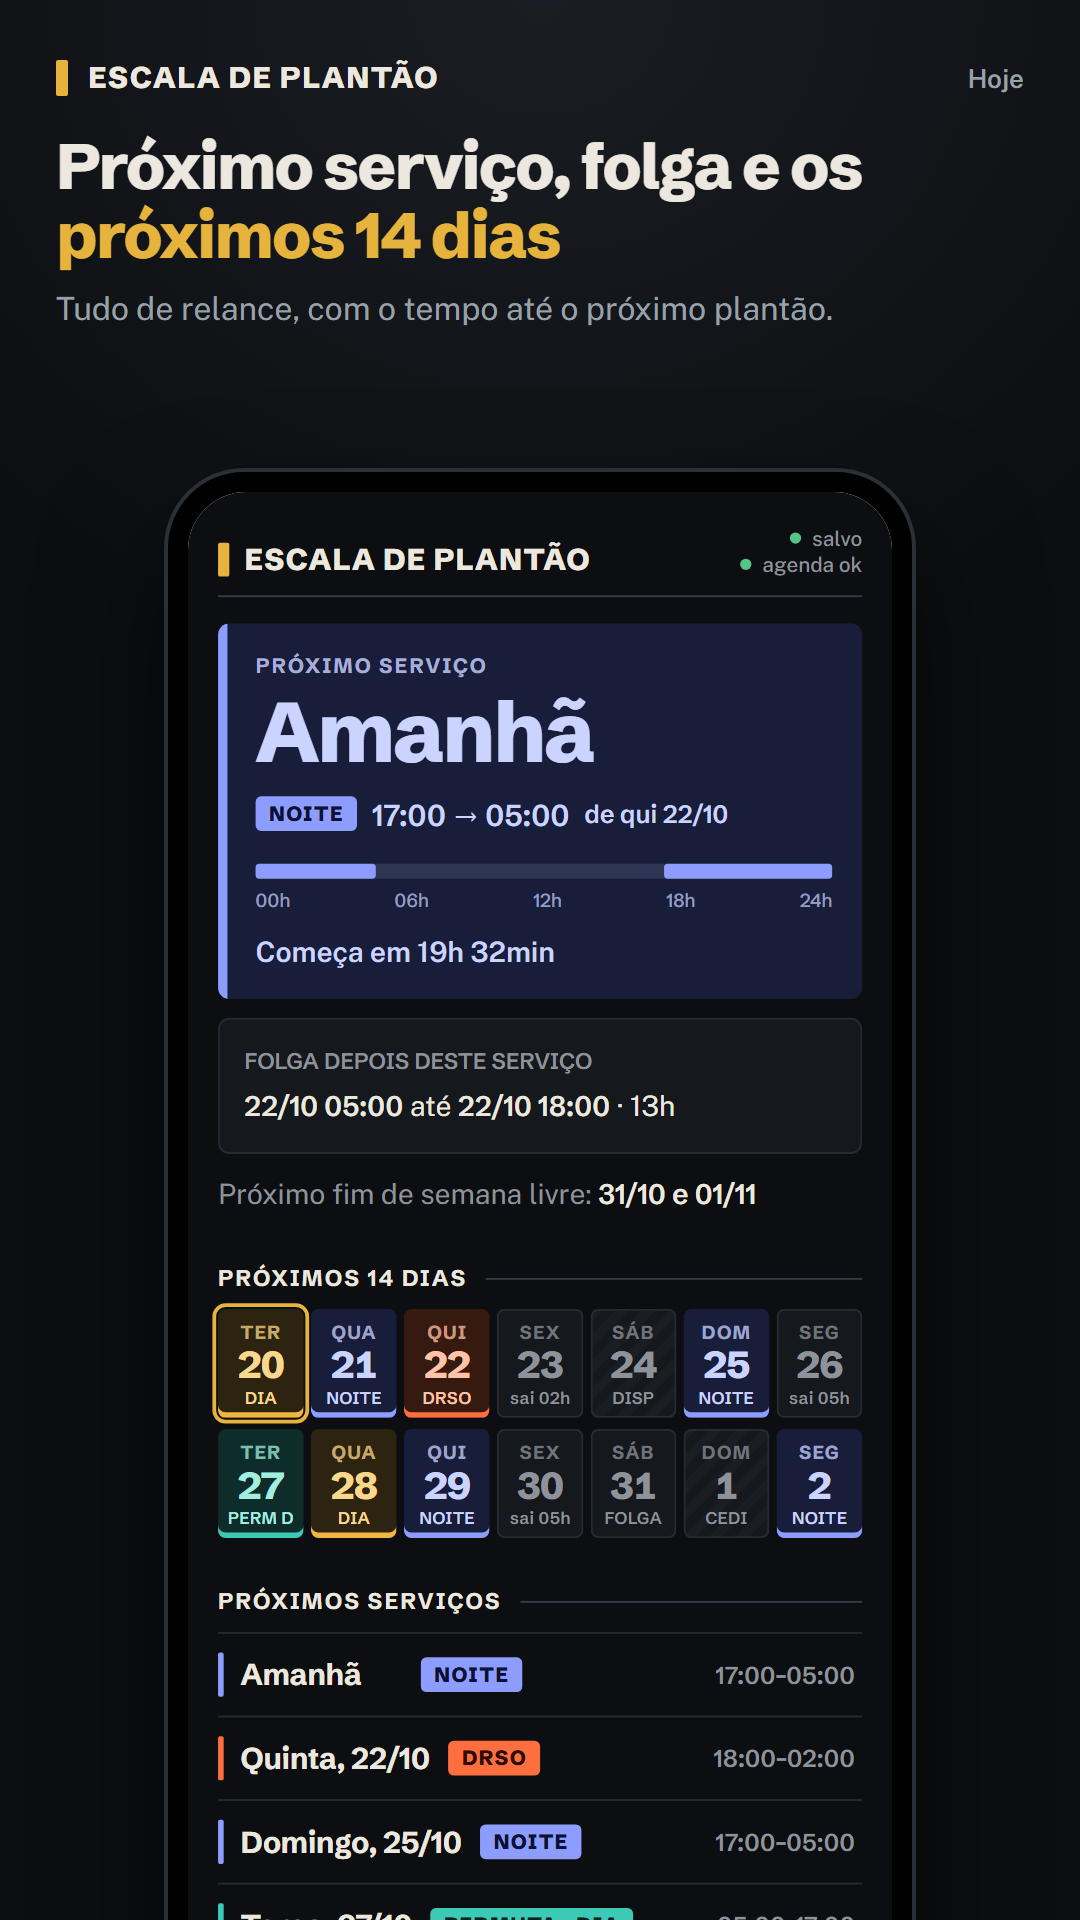
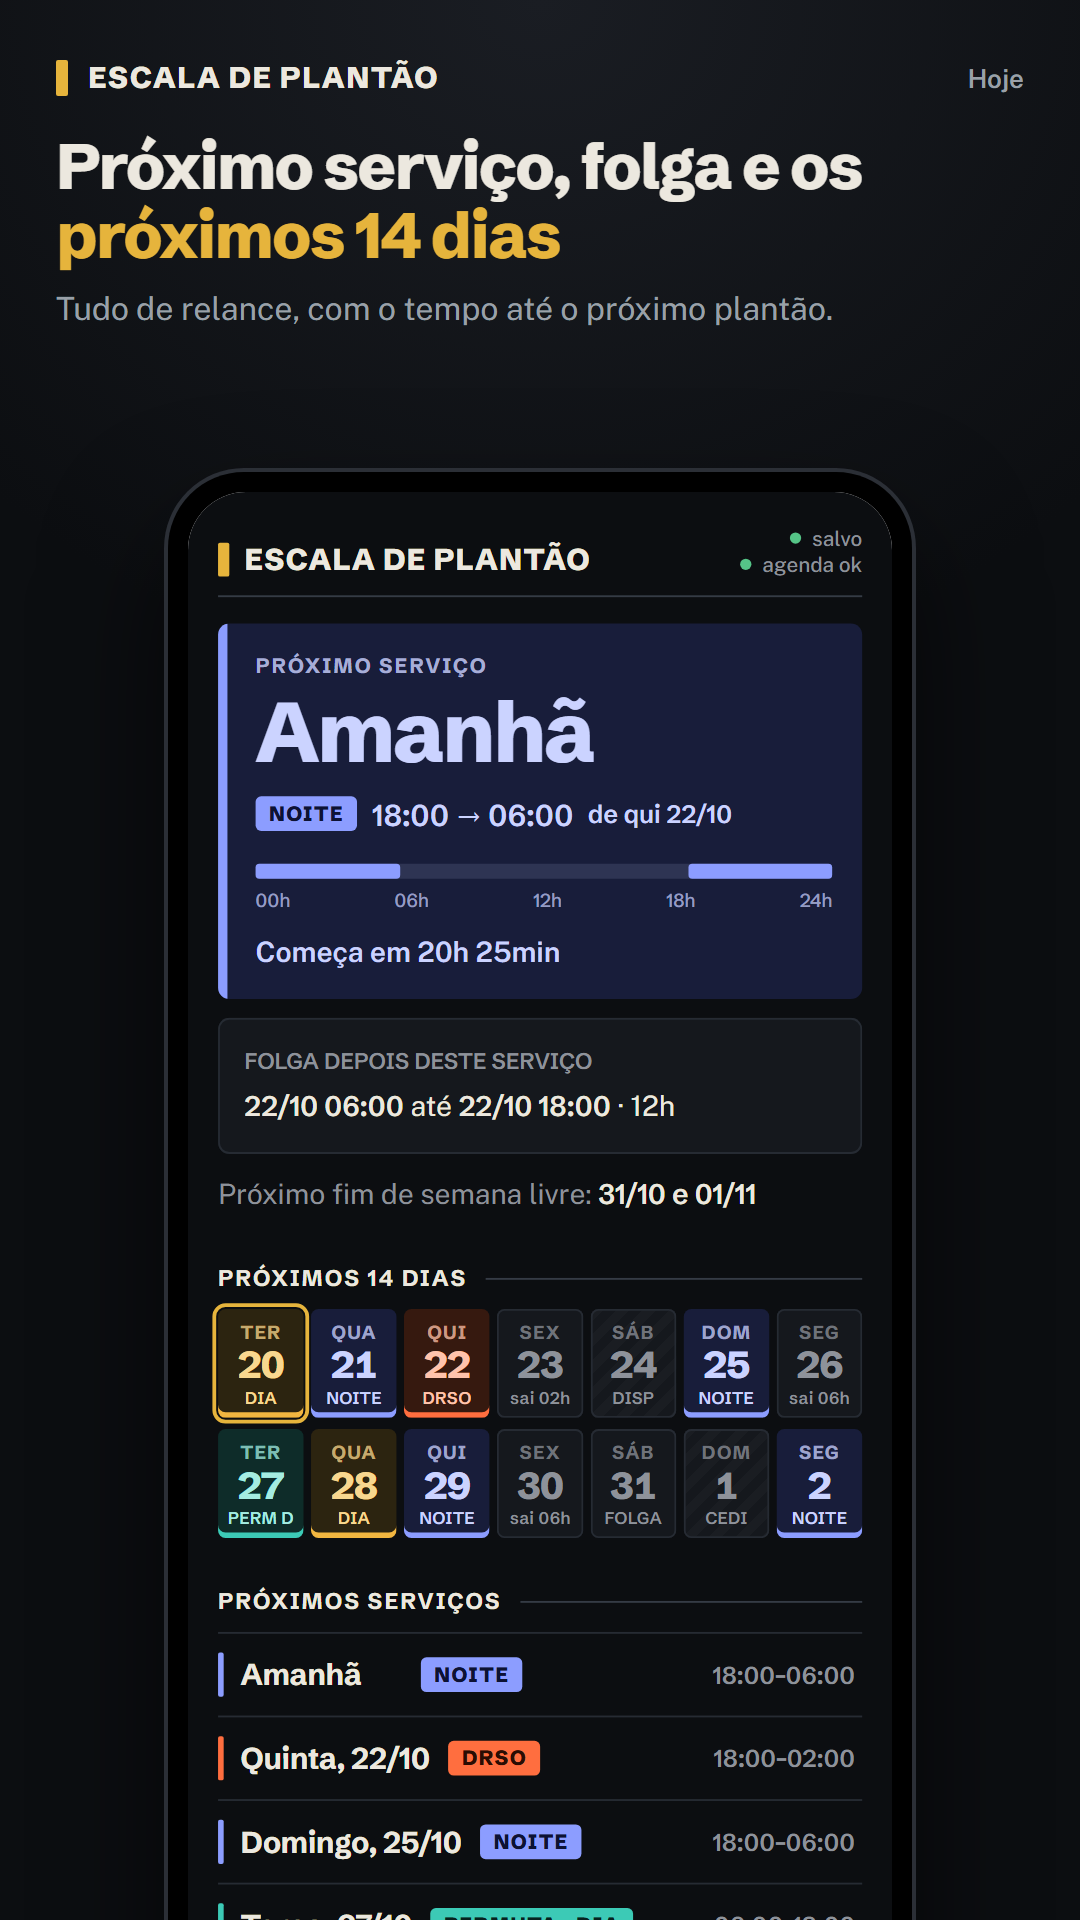
Horários padrão 06-18 e 18-06; imagens atualizadas

diff --git a/Index.html b/Index.html
@@ -310,7 +310,7 @@ function normFeriados(o,d){
   else if(!Array.isArray((d||{}).ferAnos))o.ferAnos=[2026,2027]; // dados anteriores ao ferAnos já vinham com os feriados de 2026 e 2027
   return semearFeriados(o);
 }
-const PADRAO=()=>semearFeriados({v:1,horarios:{dia:['05:00','17:00'],noite:['17:00','05:00']},ciclos:[],alertas:{dia:[600,120],noite:[1440,180]},valorHora:null,feriados:[],ferAnos:[],feriadosSem:[],eventos:[],rev:0});
+const PADRAO=()=>semearFeriados({v:1,horarios:{dia:['06:00','18:00'],noite:['18:00','06:00']},ciclos:[],alertas:{dia:[600,120],noite:[1440,180]},valorHora:null,feriados:[],ferAnos:[],feriadosSem:[],eventos:[],rev:0});
 let S=PADRAO();
 /** Completa e corrige o estado salvo (d), igual no servidor e no cliente. */
 function normalizar(d){
@@ -611,8 +611,8 @@ function viewWizard(){
   return '<h1 class="tit">Sua escala</h1><p class="muted">Escala 12x24 e 12x48: serviço de dia, serviço de noite e duas folgas, repetindo a cada 4 dias.</p>'+
   '<div class="card" id="wz" style="margin-top:12px"><label class="fld" style="margin-top:0"><span>Seu próximo serviço é de</span><select data-w="tipo"><option value="dia">Dia</option><option value="noite">Noite</option></select></label>'+
   '<label class="fld"><span>Em que data</span><input type="date" data-w="data" value="'+h+'"></label>'+
-  '<div class="duo"><label class="fld"><span>Dia · início</span>'+tin('di','05:00')+'</label><label class="fld"><span>Dia · fim</span>'+tin('df','17:00')+'</label></div>'+
-  '<div class="duo"><label class="fld"><span>Noite · início</span>'+tin('ni','17:00')+'</label><label class="fld"><span>Noite · fim</span>'+tin('nf','05:00')+'</label></div>'+
+  '<div class="duo"><label class="fld"><span>Dia · início</span>'+tin('di','06:00')+'</label><label class="fld"><span>Dia · fim</span>'+tin('df','18:00')+'</label></div>'+
+  '<div class="duo"><label class="fld"><span>Noite · início</span>'+tin('ni','18:00')+'</label><label class="fld"><span>Noite · fim</span>'+tin('nf','06:00')+'</label></div>'+
   '<label class="fld"><span>Valor da hora de DRSO (R$) · depende da graduação</span><input type="text" inputmode="decimal" data-w="vh" placeholder="pode preencher depois"></label>'+
   '<p class="dica">O app cria uma agenda chamada <b>Plantão</b> no seu Google Agenda, com avisos antes de cada serviço. Os avisos podem ser ajustados depois, em Ajustes.</p>'+
   '<button class="btn" style="margin-top:16px;width:100%" data-act="wz-ok">Criar minha escala e agenda</button></div>';

diff --git a/testes/fontes.html b/testes/fontes.html
@@ -44,11 +44,11 @@ const OPS=[['A · Archivo',"'Archivo'"],['B · Schibsted Grotesk',"'Schibsted Gr
 document.getElementById('g').innerHTML=OPS.map(([n,f])=>`<section class="op" style="--f:${f}">
 <p class="nome">${n}</p>
 <div style="font-family:${f}">
-<div class="hero"><p class="rot">Próximo serviço</p><p class="grande">Amanhã</p><p class="hora"><span class="tag">Noite</span>17:00 → 05:00</p></div>
+<div class="hero"><p class="rot">Próximo serviço</p><p class="grande">Amanhã</p><p class="hora"><span class="tag">Noite</span>18:00 → 06:00</p></div>
 <h2>Próximos 14 dias</h2>
 <div class="strip"><div class="dc"><span class="w">ter</span><span class="num">20</span><span class="t">DIA</span></div><div class="dc n"><span class="w">qua</span><span class="num">21</span><span class="t">NOITE</span></div><div class="dc f"><span class="w">qui</span><span class="num">22</span><span class="t">sai 05h</span></div><div class="dc f"><span class="w">sex</span><span class="num">23</span><span class="t">FOLGA</span></div><div class="dc"><span class="w">sáb</span><span class="num">24</span><span class="t">DIA</span></div></div>
 <h2>Próximos serviços</h2>
-<div class="lin"><span class="d">Sábado, 24/10</span><span class="tag d">Dia</span><span class="h">05:00–17:00</span></div>
+<div class="lin"><span class="d">Sábado, 24/10</span><span class="tag d">Dia</span><span class="h">06:00–18:00</span></div>
 <p class="tit">Outubro 2026</p>
 </div></section>`).join('');
 </script>

diff --git a/Código.js b/Código.js
@@ -51,7 +51,7 @@ function normFeriados(o,d){
   else if(!Array.isArray((d||{}).ferAnos))o.ferAnos=[2026,2027]; // dados anteriores ao ferAnos já vinham com os feriados de 2026 e 2027
   return semearFeriados(o);
 }
-const PADRAO=()=>semearFeriados({v:1,horarios:{dia:['05:00','17:00'],noite:['17:00','05:00']},ciclos:[],alertas:{dia:[600,120],noite:[1440,180]},valorHora:null,feriados:[],ferAnos:[],feriadosSem:[],eventos:[],rev:0});
+const PADRAO=()=>semearFeriados({v:1,horarios:{dia:['06:00','18:00'],noite:['18:00','06:00']},ciclos:[],alertas:{dia:[600,120],noite:[1440,180]},valorHora:null,feriados:[],ferAnos:[],feriadosSem:[],eventos:[],rev:0});
 let S=PADRAO();
 /** Completa e corrige o estado salvo (d), igual no servidor e no cliente. */
 function normalizar(d){

diff --git a/testes/previa.js b/testes/previa.js
@@ -6,7 +6,7 @@ const PORTA = 5173;
 
 const STUB = `<script>
 (function(){
-const estado={v:1,horarios:{dia:['05:00','17:00'],noite:['17:00','05:00']},alertas:{dia:[600,120],noite:[1440,180]},valorHora:40.5,
+const estado={v:1,horarios:{dia:['06:00','18:00'],noite:['18:00','06:00']},alertas:{dia:[600,120],noite:[1440,180]},valorHora:40.5,
  ciclos:[{desde:'2026-10-20',seq:['dia','noite','folga','folga']}],feriadosSem:[],rev:3,
  eventos:[
   {id:'a1',tipo:'extra',data:'2026-10-22',turno:'custom',ini:'18:00',fim:'02:00',dur:8,destino:'pagamento',pago:false,valor:348.3,maj:2,fer:'',obs:''},
